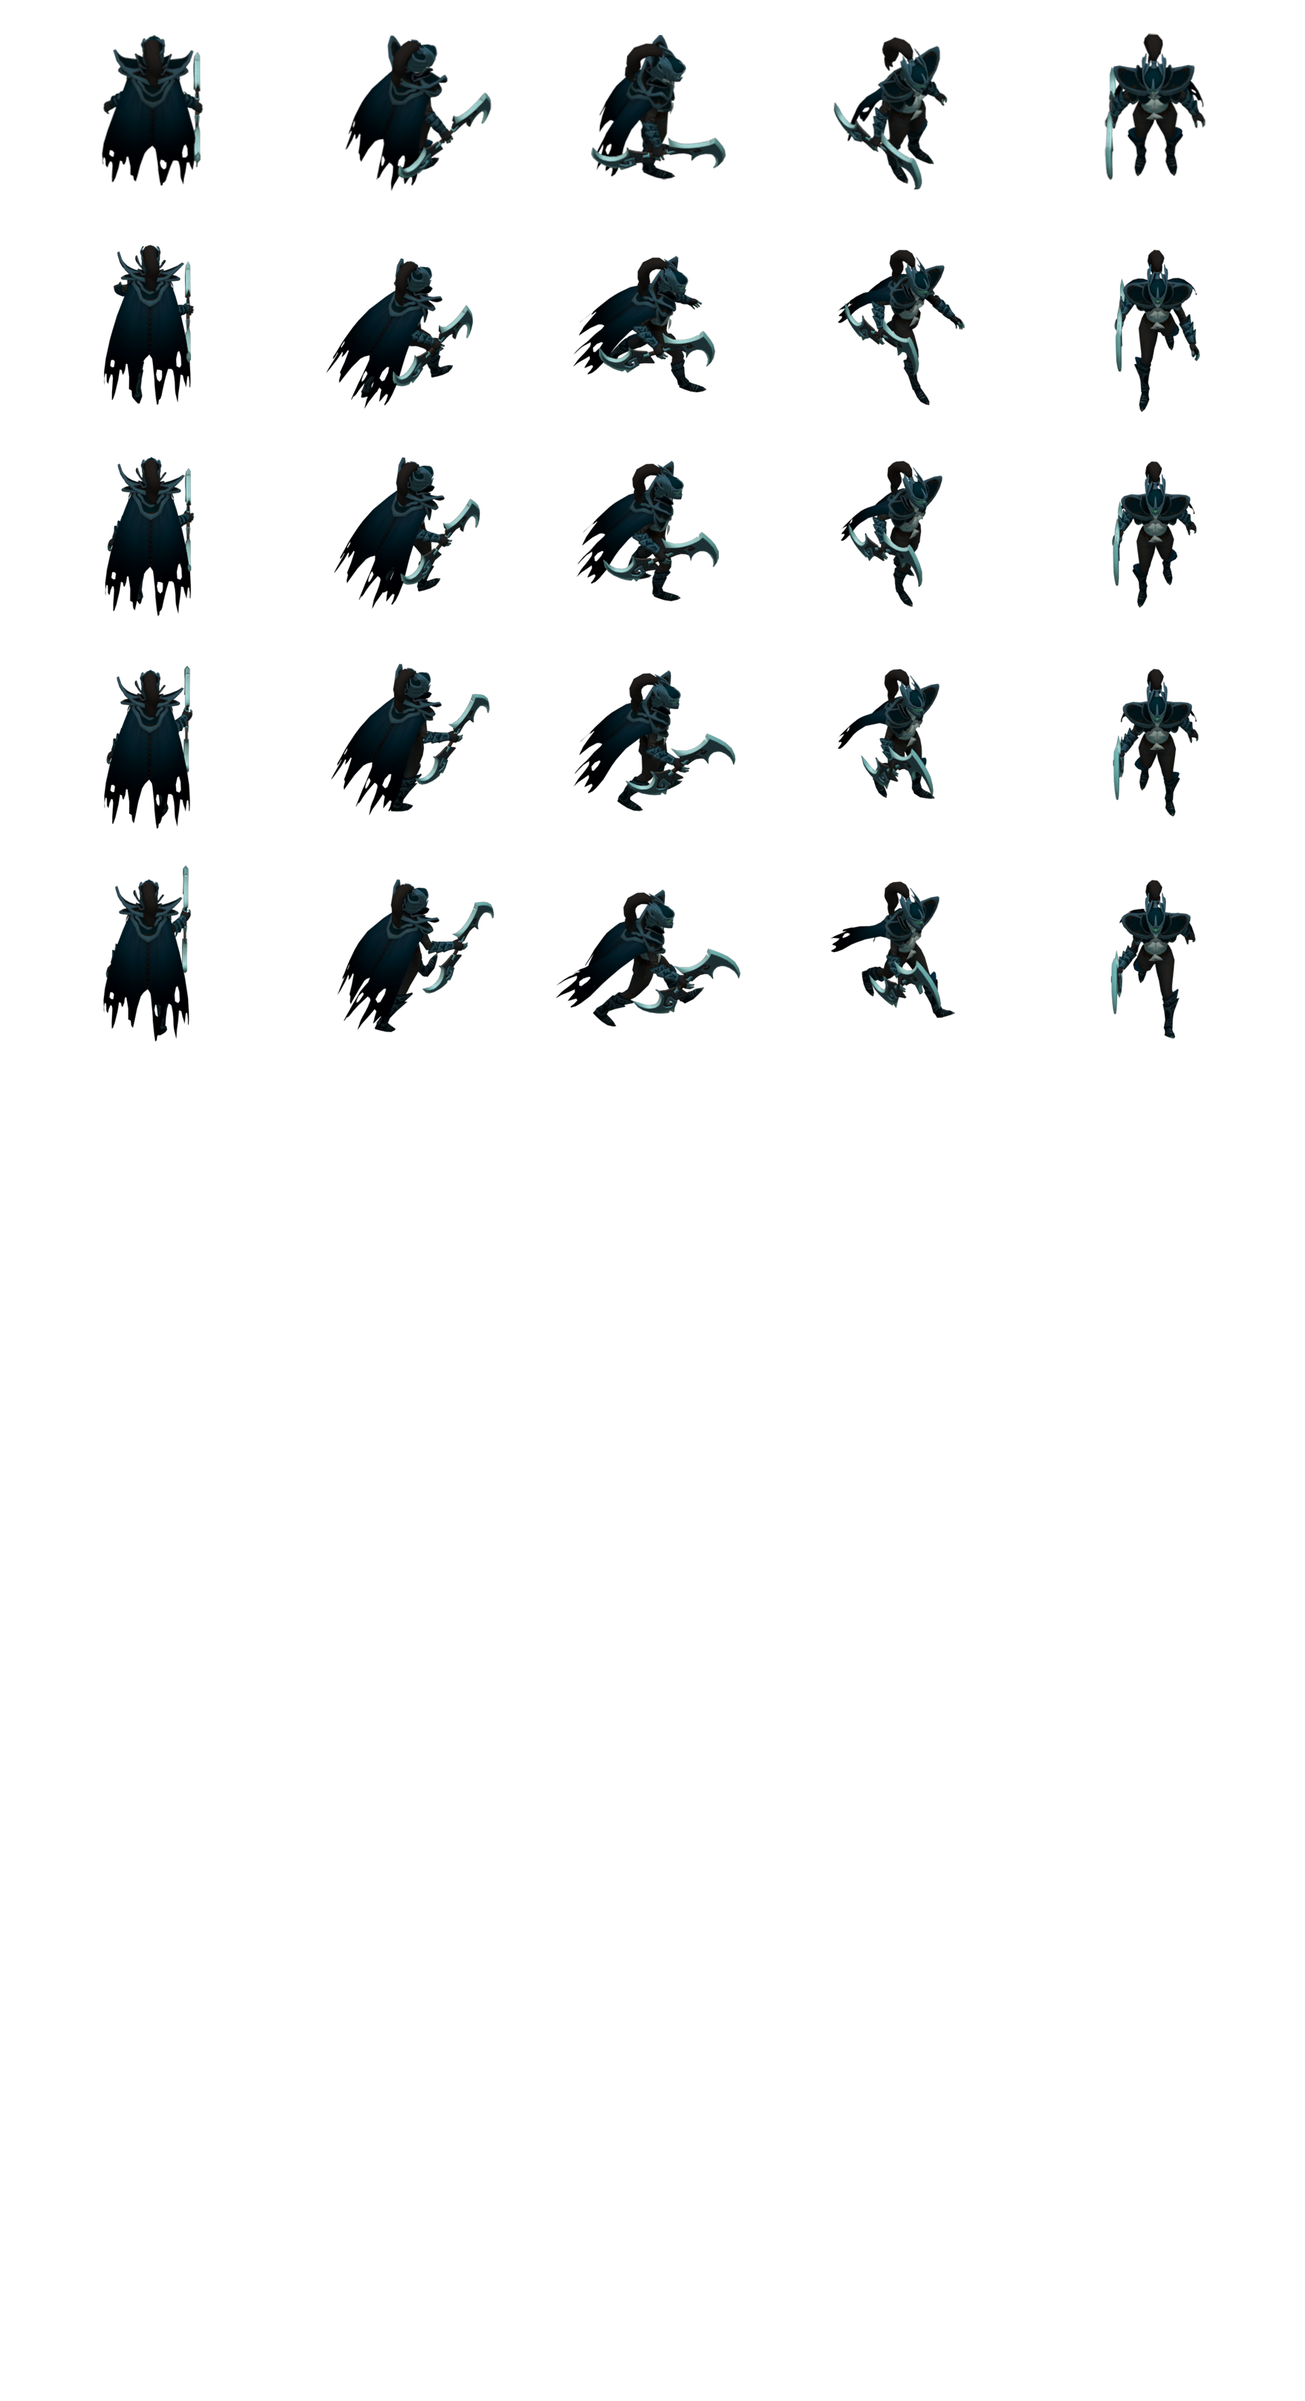
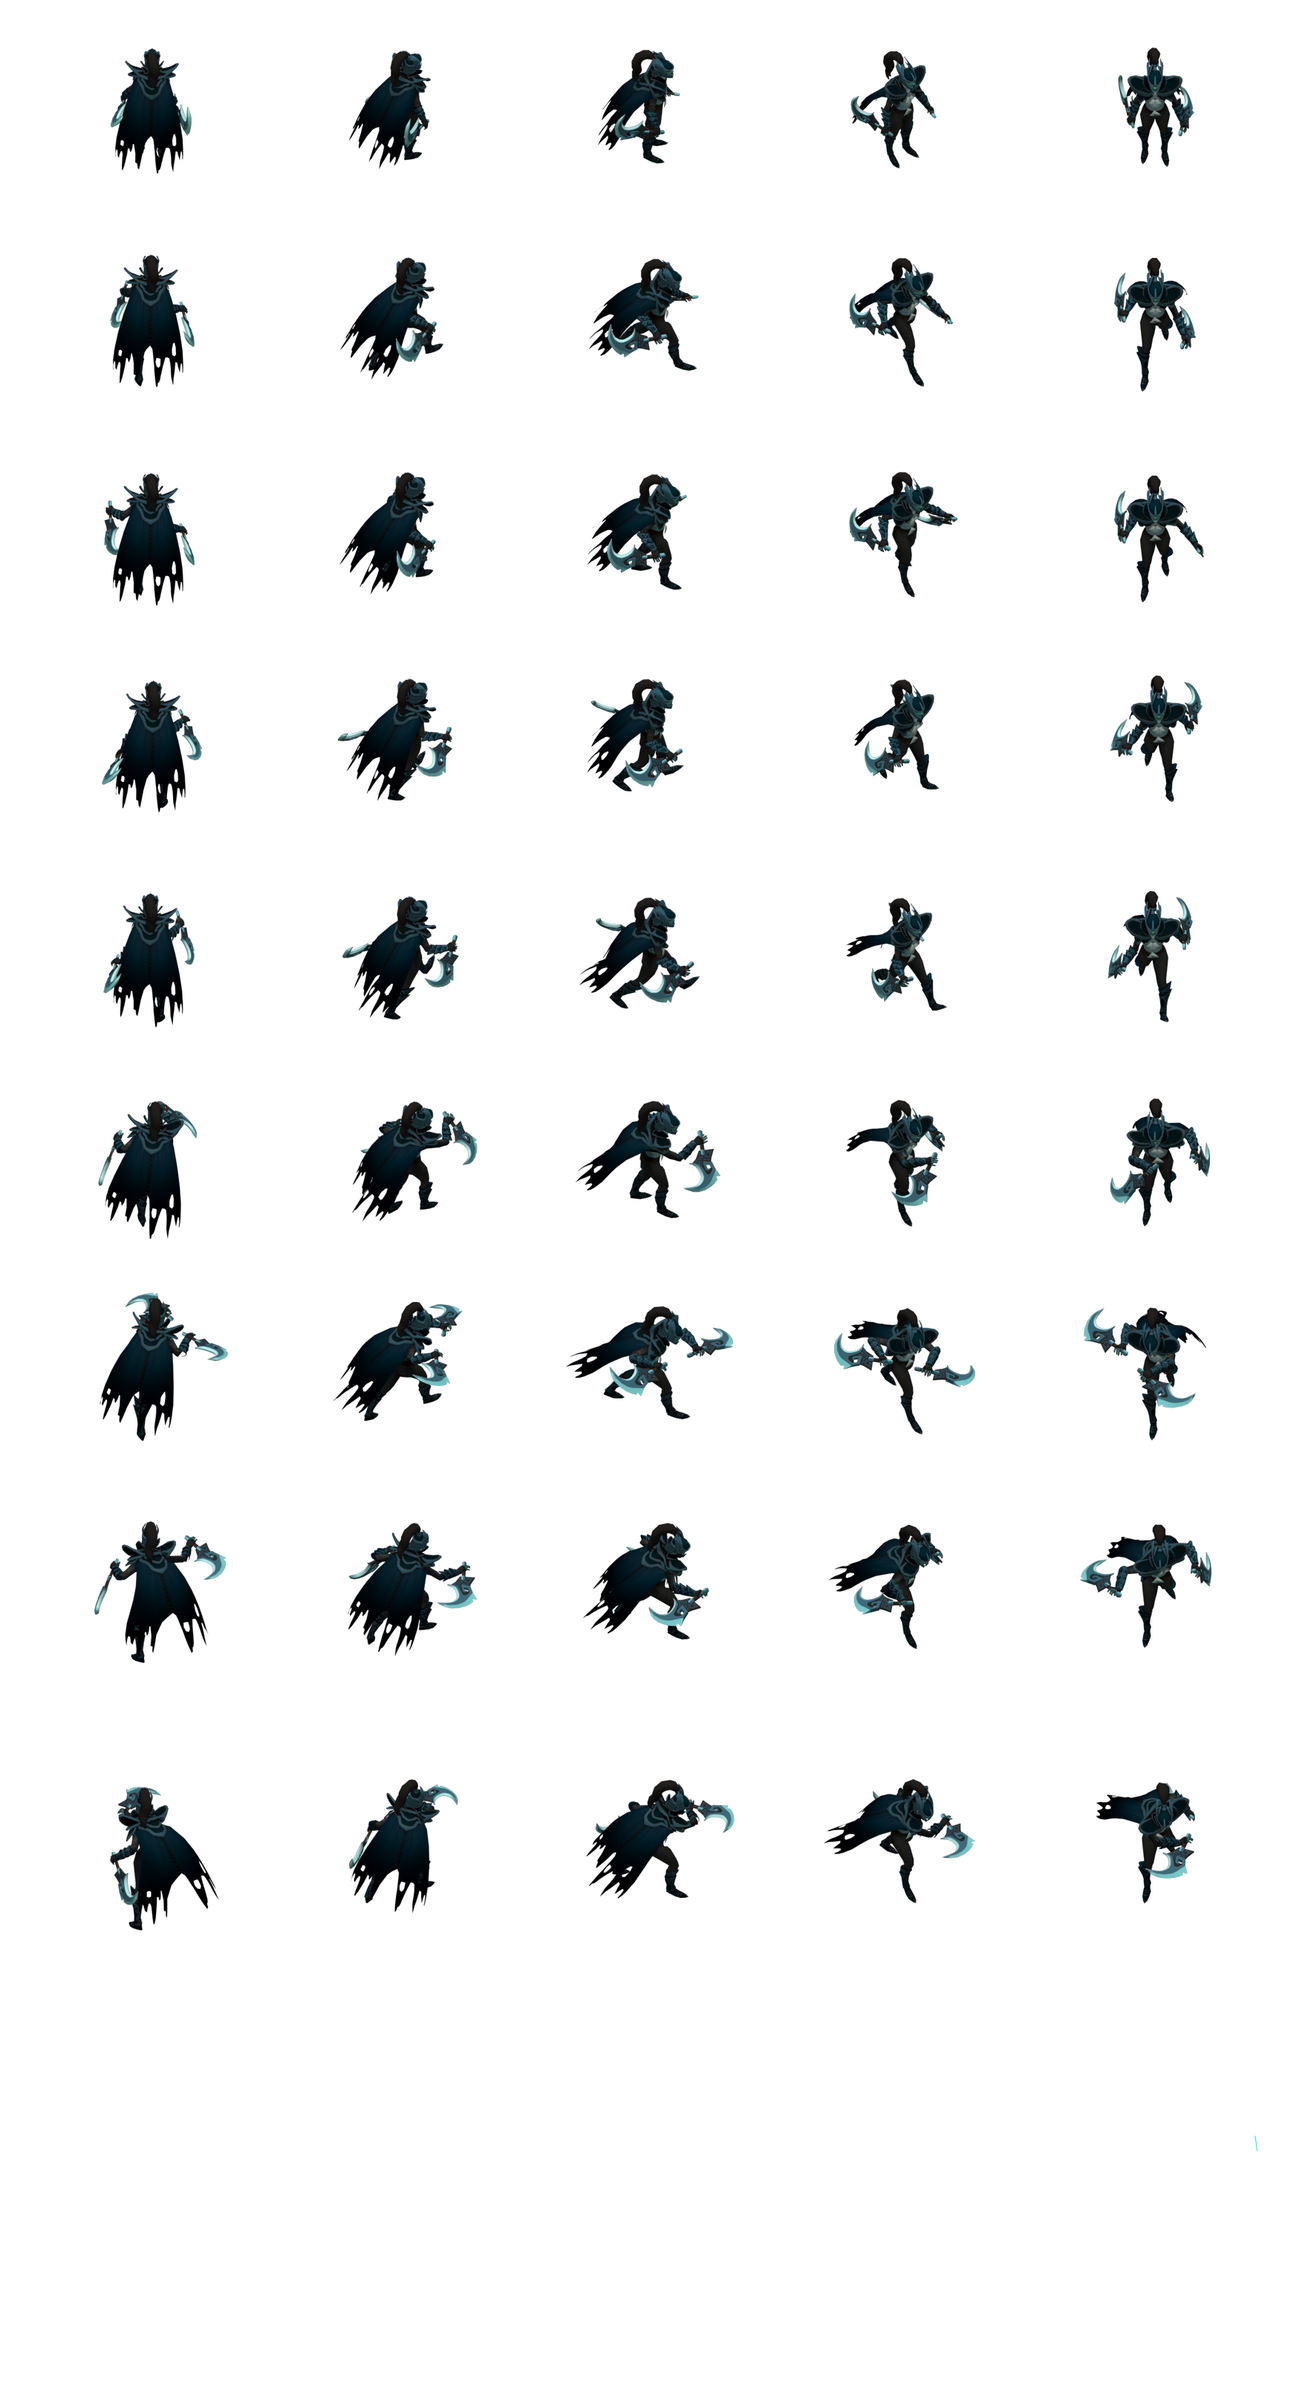
Reseau amélio + assassin

diff --git a/Projet/CrystalGate/CrystalGate/Reseau/Serveur.cs b/Projet/CrystalGate/CrystalGate/Reseau/Serveur.cs
@@ -12,8 +12,11 @@ namespace CrystalGate
 {
     public class Serveur
     {
-        static Socket serveur;
+        public static Socket serveur;
         static int NbMaxClients = 2;
+        
+        static bool bug;
+        public static bool IsRunning;
 
         public static List<Socket> clients = new List<Socket> { };
         public static List<Players> joueurs = new List<Players>();
@@ -23,6 +26,7 @@ namespace CrystalGate
             serveur = new Socket(AddressFamily.InterNetwork, SocketType.Stream, ProtocolType.Tcp);
             serveur.Bind(new IPEndPoint(IPAddress.Any, 5035));
             serveur.Listen(42);
+            IsRunning = true;
             // On attend les clients
             Thread InWaintingClient = new Thread(WaitingClient);
             InWaintingClient.Start();
@@ -34,7 +38,7 @@ namespace CrystalGate
 
         public static void WaitingClient()
         {
-            while (true)
+            while (IsRunning)
             {
                 if (clients.Count < NbMaxClients)
                 {
@@ -47,10 +51,8 @@ namespace CrystalGate
                     // Envoie l'identifiant
                     clients[clients.Count - 1].Send(new byte[] { (byte)clients.Count });
                 }
-                else // Si tout le monde est la , on envoi le signal pour que les client receptionnent
-                {
+                else // Si tout le monde est la , on arrete d'attendre les clients
                     break;
-                }
             }
         }
 
@@ -63,49 +65,72 @@ namespace CrystalGate
 
         public static void Receive()
         {
-            Socket c = clients[clients.Count - 1];
-            int id = clients.Count;
-            while (true)
+            try
             {
-                // Initialisation des variables
-                ASCIIEncoding ascii = new ASCIIEncoding();
-                BinaryFormatter formatter = new BinaryFormatter();
+                Socket c = clients[clients.Count - 1];
+                int id = clients.Count;
                 byte[] buffer = new byte[4];
-                c.Receive(buffer);
-                int header = BitConverter.ToInt32(buffer, 0);
-                Send(buffer);
-
-                if (header == 0) // Si on recoit un personnage
+                while (IsRunning)
                 {
-                    // Reception de la Taille
-                    byte[] buffer2 = new byte[4];
-                    c.Receive(buffer2);
-                    int Length = BitConverter.ToInt32(buffer2, 0);
+                    // Initialisation des variables
+                    ASCIIEncoding ascii = new ASCIIEncoding();
+                    BinaryFormatter formatter = new BinaryFormatter();
+                    if (!bug)
+                        c.Receive(buffer);
+                    int header = BitConverter.ToInt32(buffer, 0);
+                    Send(buffer);
 
-                    // Envoi de l'ID du joueur et de la taille
-                    Send(BitConverter.GetBytes(id));
-                    Send(buffer2);
+                    if (header == 42) // Si on recoit un personnage
+                    {
+                        // Reception de la Taille
+                        byte[] buffer2 = new byte[4];
+                        c.Receive(buffer2);
+                        int Length = BitConverter.ToInt32(buffer2, 0);
 
-                    // Données
-                    byte[] buffer3 = new byte[Length];
-                    c.Receive(buffer3);
-                    Send(buffer3); // Envoie les infos reçus aux clients
-                }
-                else if (header == 1) // Si on reçoit une personne 
-                {
-                    // Reception de la Taille
-                    byte[] buffer2 = new byte[4];
-                    c.Receive(buffer2);
-                    int Length = BitConverter.ToInt32(buffer2, 0);
+                        // Envoi de l'ID du joueur et de la taille
+                        Send(BitConverter.GetBytes(id));
+                        Send(buffer2);
 
-                    Send(buffer2);
+                        // Données
+                        byte[] buffer3 = new byte[Length];
+                        c.Receive(buffer3);
+                        Send(buffer3); // Envoie les infos reçus aux clients
+                    }
+                    else if (header == 1) // Si on reçoit une personne 
+                    {
+                        // Reception de la Taille
+                        byte[] buffer2 = new byte[4];
+                        c.Receive(buffer2);
+                        int Length = BitConverter.ToInt32(buffer2, 0);
 
-                    // Données
-                    byte[] buffer3 = new byte[Length];
-                    c.Receive(buffer3);
-                    Send(buffer3); // Envoie les infos reçus aux clients
+                        Send(buffer2);
+
+                        // Données
+                        byte[] buffer3 = new byte[Length];
+                        c.Receive(buffer3);
+                        Send(buffer3); // Envoie les infos reçus aux clients
+                    }
+                    else // Si on a recu un header incorrect, on attend de recevoir un header correct
+                    {
+                        byte[] debug = new byte[4];
+                        while (BitConverter.ToInt32(debug, 0) != 42)
+                            c.Receive(debug);
+                        bug = true;
+                        buffer = debug;
+                    }
                 }
             }
+            catch
+            {
+                // Le client de cette thread s'est déco, on arrete de receive et la thread se finit
+            }
+        }
+
+        public static void Shutdown()
+        {
+            serveur.Close();
+            IsRunning = false; // Arrete les threads
+            clients.Clear();
         }
     }
 }

diff --git a/Projet/CrystalGate/CrystalGate/Reseau/Client.cs b/Projet/CrystalGate/CrystalGate/Reseau/Client.cs
@@ -13,7 +13,7 @@ namespace CrystalGate
 {
     public class Client
     {
-        static Socket client;
+        public static Socket client;
         public static int id;
         public static bool isConnected { get { return client != null && client.Connected; } }
         public static bool Started;
@@ -59,57 +59,65 @@ namespace CrystalGate
 
         public static void Receive()
         {
-            Started = true;
-            while (true)
+            try
             {
-                // Réception du header
-                byte[] buffer = new byte[4];
-                client.Receive(buffer);
-                int header = BitConverter.ToInt32(buffer, 0);
-
-                if (header == 0)
+                Started = true;
+                while (true)
                 {
-                    // Réception de l'ID du client
-                    byte[] buffer1 = new byte[4];
-                    client.Receive(buffer1);
-                    int IdDuJoueur = BitConverter.ToInt32(buffer1, 0);
+                    // Réception du header
+                    byte[] buffer = new byte[4];
+                    client.Receive(buffer);
+                    int header = BitConverter.ToInt32(buffer, 0);
 
-                    // De la taille
-                    byte[] buffer2 = new byte[4];
-                    client.Receive(buffer2);
-                    int messageLength = BitConverter.ToInt32(buffer2, 0);
-
-                    //Des données
-                    byte[] buffer3 = new byte[messageLength];
-                    client.Receive(buffer3);
-                    // On deserialise et modifie le joueur
-                    Unserialize(IdDuJoueur, buffer3);
-                }
-                else if (header == 1)
-                {
-                    // De la taille
-                    byte[] buffer2 = new byte[4];
-                    client.Receive(buffer2);
-                    int messageLength = BitConverter.ToInt32(buffer2, 0);
-
-                    //Des données
-                    byte[] buffer3 = new byte[messageLength];
-                    client.Receive(buffer3);
-
-                    BinaryFormatter formatter = new BinaryFormatter();
-                    MemoryStream stream = new MemoryStream(buffer3);
-                    stream.Position = 0;
-
-                    Players j = (Players)formatter.Deserialize(stream);
-                    if (j.id - 1 == joueursConnectes.Count)
+                    if (header == 42)
                     {
-                        joueursConnectes.Add(j);
+                        // Réception de l'ID du client
+                        byte[] buffer1 = new byte[4];
+                        client.Receive(buffer1);
+                        int IdDuJoueur = BitConverter.ToInt32(buffer1, 0);
+
+                        // De la taille
+                        byte[] buffer2 = new byte[4];
+                        client.Receive(buffer2);
+                        int messageLength = BitConverter.ToInt32(buffer2, 0);
+
+                        //Des données
+                        byte[] buffer3 = new byte[messageLength];
+                        client.Receive(buffer3);
+                        // On deserialise et modifie le joueur
+                        Unserialize(IdDuJoueur, buffer3);
                     }
-                    else 
+                    else if (header == 1)
                     {
-                        joueursConnectes[j.id - 1] = j;
+                        // De la taille
+                        byte[] buffer2 = new byte[4];
+                        client.Receive(buffer2);
+                        int messageLength = BitConverter.ToInt32(buffer2, 0);
+
+                        //Des données
+                        byte[] buffer3 = new byte[messageLength];
+                        client.Receive(buffer3);
+
+                        BinaryFormatter formatter = new BinaryFormatter();
+                        MemoryStream stream = new MemoryStream(buffer3);
+                        stream.Position = 0;
+
+                        Players j = (Players)formatter.Deserialize(stream);
+                        if (j.id - 1 == joueursConnectes.Count)
+                        {
+                            joueursConnectes.Add(j);
+                        }
+                        else
+                        {
+                            joueursConnectes[j.id - 1] = j;
+                        }
                     }
+
                 }
+            }
+            catch
+            {
+                // Le client s'est deco
             }
         }
 

diff --git a/Projet/CrystalGate/CrystalGate/Joueur.cs b/Projet/CrystalGate/CrystalGate/Joueur.cs
@@ -266,7 +266,7 @@ namespace CrystalGate
                 stream.Position = 0;
                 stream.Read(buffer, 0, buffer.Length);
                 // Envoi
-                Client.Send(buffer, 0);
+                Client.Send(buffer, 42);
                 t = 0;
             }
             t++;
@@ -292,7 +292,7 @@ namespace CrystalGate
             Vector2 ObjectifPoint = new Vector2(camera.Position.X + Interface.mouse.X, camera.Position.Y + Interface.mouse.Y) / Map.TailleTiles;
             ObjectifPoint = new Vector2((int)ObjectifPoint.X, (int)ObjectifPoint.Y);
             foreach (Unite u in Map.unites)
-                if(u != champion && !u.isApnj && Outil.DistancePoints(ObjectifPoint, u .PositionTile) <= 45)
+                if(u != champion && !u.isApnj && Outil.DistancePoints(ObjectifPoint, u .PositionTile) <= 60)
                 {
                     champion.uniteAttacked = u;
                     List<Noeud> chemin = PathFinding.TrouverChemin(champion.PositionTile, ObjectifPoint, Map.Taille, new List<Unite> { }, Map.unitesStatic, false);

diff --git a/Projet/CrystalGate/CrystalGate/Unites/Assassin.cs b/Projet/CrystalGate/CrystalGate/Unites/Assassin.cs
@@ -19,18 +19,20 @@ namespace CrystalGate
             Scale = 0.4f;
             // Graphique
             Sprite = PackTexture.Assassin;
-            Tiles = new Vector2(1757 / 5, 1400 / 5);
+            Tiles = new Vector2(1757 / 5, 3150 / 11);
             Portrait = PackTexture.AssassinPortrait;
             packAnimation = new PackAnimation();
             // Statistiques
-            Vie = VieMax = 3000;
-            Vitesse = 0.2f;
-            Vitesse_Attaque = 1f;
+            Vie = VieMax = 350;
+            Vitesse = 0.12f;
+            Vitesse_Attaque = 0.4f;
             Portee = 1f; // 1 = Corps à corps
-            Dommages = 100;
-            Puissance = 100;
-            Defense = 10;
+            Dommages = 75;
+            Puissance = 10;
+            Defense = 3;
+            DefenseMagique = 3;
             XPUnite = 200;
+
             Inventory = new List<Item> { new PotionDeVie(this, Vector2.Zero) };
 
             // Sons

diff --git a/Projet/CrystalGate/CrystalGate/PackMap.cs b/Projet/CrystalGate/CrystalGate/PackMap.cs
@@ -123,15 +123,16 @@ namespace CrystalGate
         {
             joueurs.Clear();
             if (SceneHandler.gameplayScene.isCoopPlay)
-                for (int i = 0; i < 2; i++)
-                {
-                    joueurs.Add(new Joueur(new Guerrier(new Vector2(0, 9 + 2*i))));
-                    joueurs[joueurs.Count - 1].id = joueurs.Count;
-                }
-                
-            else
             {
                 joueurs.Add(new Joueur(new Guerrier(new Vector2(0, 9))));
+                joueurs[joueurs.Count - 1].id = joueurs.Count;
+                joueurs.Add(new Joueur(new Assassin(new Vector2(0, 11))));
+                joueurs[joueurs.Count - 1].id = joueurs.Count;
+            }
+
+            else
+            {
+                joueurs.Add(new Joueur(new Assassin(new Vector2(0, 9))));
                 // On spécifie le joueur local
             }
 

diff --git a/Projet/CrystalGate/CrystalGate/SceneEngine2/DefeatScene.cs b/Projet/CrystalGate/CrystalGate/SceneEngine2/DefeatScene.cs
@@ -58,6 +58,11 @@ namespace CrystalGate.SceneEngine2
             {
                 if (mouseRec.Intersects(boutonQuitter))
                 {
+                    // Deconnecte du reseau
+                    if (Serveur.clients.Count > 0) // Si on etait le serveur
+                        Serveur.Shutdown();
+                    if (Client.client != null) // Si on etait un client
+                        Client.client.Close();
                     SceneHandler.ResetGameplay();
                     CrystalGate.FondSonore.Stop();
                     SceneHandler.gameState = GameState.MainMenu;

diff --git a/Projet/CrystalGate/CrystalGate/SceneEngine2/PauseScene.cs b/Projet/CrystalGate/CrystalGate/SceneEngine2/PauseScene.cs
@@ -73,6 +73,11 @@ namespace CrystalGate.SceneEngine2
                     SceneHandler.ResetGameplay();
                     CrystalGate.FondSonore.Stop();
                     SceneHandler.gameState = GameState.MainMenu;
+                    // Deconnecte du reseau
+                    if (Serveur.clients.Count > 0) // Si on etait le serveur
+                        Serveur.Shutdown();
+                    if (Client.client != null) // Si on etait un client
+                        Client.client.Close();
                 }
             }
         }
